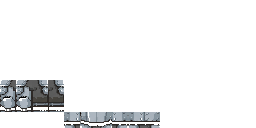
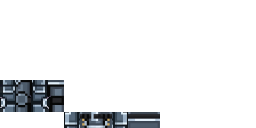
Armor: layers made from Gemini's references at 4x, keeping its shading (no flat fills); no wings on VoidSteel
Claude-Session: https://claude.ai/code/session_01EBwenvvajHweeo8LENBWM4

Changed region(s): [[0.0, 0.625, 0.25, 0.875], [0.25, 0.875, 0.625, 1.0]]

diff --git a/ctc-core/tools/worn_hd.py b/ctc-core/tools/worn_hd.py
@@ -1,0 +1,152 @@
+#!/usr/bin/env python3
+"""Gemini armor references (front/back + side/top, magenta background) -> armor layers that keep Gemini's shading.
+Every model pixel becomes S x S texels resampled from the drawing (no re-gridding, no flat fills).
+worn_hd.py <front_back.png> <side_top.png> <out_prefix> [S=4] [--nowings]"""
+import sys, os
+import numpy as np
+from PIL import Image
+sys.path.insert(0, os.path.dirname(__file__))
+from hires_sprites import matte
+
+fb_path, st_path, out = sys.argv[1], sys.argv[2], sys.argv[3]
+S = int(sys.argv[4]) if len(sys.argv) > 4 and sys.argv[4].isdigit() else 4
+NOWINGS = '--nowings' in sys.argv
+
+def load(p):
+    a = matte(np.array(Image.open(p).convert('RGBA')))
+    return a
+
+def figures(a, n):
+    """Bounding boxes of the n biggest figures, left to right."""
+    from scipy import ndimage
+    op = a[..., 3] > 128
+    lab, k = ndimage.label(ndimage.binary_dilation(op, iterations=6))
+    sizes = ndimage.sum(op, lab, range(1, k + 1))
+    keep = np.argsort(sizes)[::-1][:n] + 1
+    boxes = []
+    for i in keep:
+        ys, xs = np.nonzero((lab == i) & op)
+        boxes.append((xs.min(), ys.min(), xs.max() + 1, ys.max() + 1))
+    return sorted(boxes)
+
+FB, ST = load(fb_path), load(st_path)
+front_b, back_b = figures(FB, 2)
+side_b, side2_b, top_b = figures(ST, 3)
+
+def grab(a, box, units_w, units_h, ux, uy, uw, uh, mirror=False, anchor='center', horns_cut=0):
+    """Model-unit rectangle of a figure -> (uh*S, uw*S) RGBA, resampled with a box filter (keeps shading)."""
+    x0, y0, x1, y1 = box
+    ppu = (y1 - y0 - horns_cut) / units_h
+    y0 = y0 + horns_cut
+    cx = (x0 + x1) / 2
+    fx0 = cx - units_w / 2 * ppu
+    l, t = fx0 + ux * ppu, y0 + uy * ppu
+    crop = Image.fromarray(a).crop((int(round(l)), int(round(t)), int(round(l + uw * ppu)), int(round(t + uh * ppu))))
+    crop = crop.resize((uw * S, uh * S), Image.BOX)
+    r = np.array(crop)
+    r[..., 3] = np.where(r[..., 3] > 100, 255, 0)
+    return r[:, ::-1] if mirror else r
+
+# the front/back figure is 16 units wide and 32 high; horns stick out above the head on the VoidSteel sheet
+def head_top(a, box):
+    """Rows above the head that are horns only: find where the head is at least 6 units wide."""
+    x0, y0, x1, y1 = box
+    op = a[y0:y1, x0:x1, 3] > 0
+    width = op.sum(1)
+    est = (y1 - y0) / 32
+    for y in range(len(width)):
+        if width[y] > 6 * est: return y
+    return 0
+
+hc_f, hc_b = head_top(FB, front_b), head_top(FB, back_b)
+F = lambda *r, **k: grab(FB, front_b, 16, 32, *r, horns_cut=hc_f, **k)
+B = lambda *r, **k: grab(FB, back_b, 16, 32, *r, horns_cut=hc_b, **k)
+hc_s = head_top(ST, side_b)
+SD = lambda *r, **k: grab(ST, side_b, 8, 32, *r, horns_cut=hc_s, **k)       # side view: 8 units wide (the head depth)
+x0, y0, x1, y1 = top_b
+TOP = Image.fromarray(ST).crop(top_b)
+
+L1 = np.zeros((32 * S, 64 * S, 4), np.uint8); L2 = np.zeros_like(L1)
+def put(t, u, v, a):
+    h, w = a.shape[:2]; t[v * S:v * S + h, u * S:u * S + w] = a
+
+def solid(a):
+    """Fill holes inside a face with the nearest drawn colour (armor faces are closed plates)."""
+    from scipy import ndimage
+    op = a[..., 3] > 0
+    if not op.any(): return a
+    idx = ndimage.distance_transform_edt(~op, return_distances=False, return_indices=True)
+    return a[idx[0], idx[1]]
+
+def dewing(a):
+    """VoidSteel back: the purple wing panels Gemini drew become dark plate (David: no wings)."""
+    a = a.copy(); rgb = a[..., :3].astype(int)
+    r, g, b = rgb[..., 0], rgb[..., 1], rgb[..., 2]
+    wing = (b > r + 8) & (b - g > 35) & (rgb.max(2) < 170) & (rgb.max(2) > 60)
+    lum = (r + g + b) // 3
+    a[wing, 0] = (lum[wing] * 0.42).astype(np.uint8) + 10
+    a[wing, 1] = (lum[wing] * 0.38).astype(np.uint8) + 8
+    a[wing, 2] = (lum[wing] * 0.55).astype(np.uint8) + 14
+    return a
+
+def unhorn(a):
+    """Horn tips that reach into the helmet's top rows: removed (the 3D horns are separate cubes)."""
+    a = a.copy(); rgb = a[..., :3].astype(int)
+    horn = (rgb[..., 0] > 150) & (rgb[..., 2] > 180) & (rgb[..., 1] > 110)
+    horn[3 * S:] = False
+    a[horn] = 0
+    return solid(a)
+
+def depink(t):
+    """Magenta-tinted rim texels left by the background: take the nearest clean colour."""
+    from scipy import ndimage
+    rgb = t[..., :3].astype(int)
+    r, g, b = rgb[..., 0], rgb[..., 1], rgb[..., 2]
+    if NOWINGS:   # VoidSteel is purple itself: only the obvious key colour
+        pink = (t[..., 3] > 0) & (r - g > 45) & (b - g > 45) & (np.abs(r - b) < 60)
+    else:
+        pink = (t[..., 3] > 0) & (r > g * 1.35 + 8) & (b > g * 1.35 + 8) & (np.abs(r - b) < 0.35 * np.maximum(r, b) + 10)
+    if not pink.any(): return t
+    good = (t[..., 3] > 0) & ~pink
+    idx = ndimage.distance_transform_edt(~good, return_distances=False, return_indices=True)
+    t = t.copy(); t[pink] = t[idx[0], idx[1]][pink]
+    return t
+
+# ---- head (helmet)
+put(L1, 8, 8, unhorn(F(4, 0, 8, 8)))
+put(L1, 24, 8, unhorn(B(4, 0, 8, 8)))
+side_head = unhorn(SD(0, 0, 8, 8))
+put(L1, 0, 8, side_head); put(L1, 16, 8, side_head[:, ::-1])
+tw = TOP.width; th = TOP.height
+# top view: the head is the middle square; shoulders/arms stick out on both sides
+hs = int(min(th, tw * 8 / 24))
+cx = tw // 2
+head_sq = TOP.crop((cx - hs // 2, 0, cx + hs // 2, hs)).resize((8 * S, 8 * S), Image.BOX)
+hsq = np.array(head_sq); hsq[..., 3] = np.where(hsq[..., 3] > 100, 255, 0)
+put(L1, 8, 0, unhorn(hsq))
+put(L1, 16, 0, solid(hsq))                     # bottom of the head (barely seen)
+# ---- body: chestplate rows 0-10 on layer 1, belt rows 8-12 on layer 2
+bf, bb = solid(F(4, 8, 8, 12)), solid(B(4, 8, 8, 12))
+if NOWINGS: bb = dewing(bb)
+bs = solid(SD(2, 8, 4, 12))
+c = lambda a, r0, r1: (lambda z: (z.__setitem__(slice(0, r0 * S), 0), z.__setitem__(slice(r1 * S, None), 0), z)[2])(a.copy())
+put(L1, 20, 20, c(bf, 0, 10)); put(L1, 32, 20, c(bb, 0, 10)); put(L1, 16, 20, c(bs, 0, 10)); put(L1, 28, 20, c(bs, 0, 10)[:, ::-1])
+top_body = np.array(Image.fromarray(bf[:4 * S]).resize((8 * S, 4 * S), Image.BOX)); put(L1, 20, 16, top_body)
+put(L2, 20, 20, c(bf, 8, 12)); put(L2, 32, 20, c(bb, 8, 12)); put(L2, 16, 20, c(bs, 8, 12)); put(L2, 28, 20, c(bs, 8, 12)[:, ::-1])
+# ---- arms (layer 1): front = viewer's left arm on the front view, back = viewer's right arm on the back view
+af, ab = solid(F(0, 8, 4, 12)), solid(B(12, 8, 4, 12))
+aside = solid(SD(2, 8, 4, 12))                 # in side view the arm covers the body side
+put(L1, 44, 20, af); put(L1, 52, 20, ab); put(L1, 40, 20, aside); put(L1, 48, 20, aside[:, ::-1])
+put(L1, 44, 16, af[:4 * S]); put(L1, 48, 16, af[-4 * S:])
+# ---- legs: boots rows 8-12 on layer 1, leggings rows 0-8 on layer 2
+lf, lb = solid(F(4, 20, 4, 12)), solid(B(8, 20, 4, 12))
+ls = solid(SD(2, 20, 4, 12))
+for layer, r0, r1 in ((L1, 8, 12), (L2, 0, 8)):
+    for u, a in ((4, lf), (12, lb), (0, ls), (8, ls[:, ::-1])):
+        put(layer, u, 20, c(a, r0, r1))
+put(L1, 8, 16, lf[-4 * S:])                    # boot soles
+if '--lighten' in sys.argv:
+    for t in (L1, L2): t[..., :3] = np.clip(t[..., :3].astype(float) * 1.12 + 6, 0, 255).astype(np.uint8)
+L1, L2 = depink(L1), depink(L2)
+Image.fromarray(L1).save(out + '_layer_1.png'); Image.fromarray(L2).save(out + '_layer_2.png')
+print('written', out)
